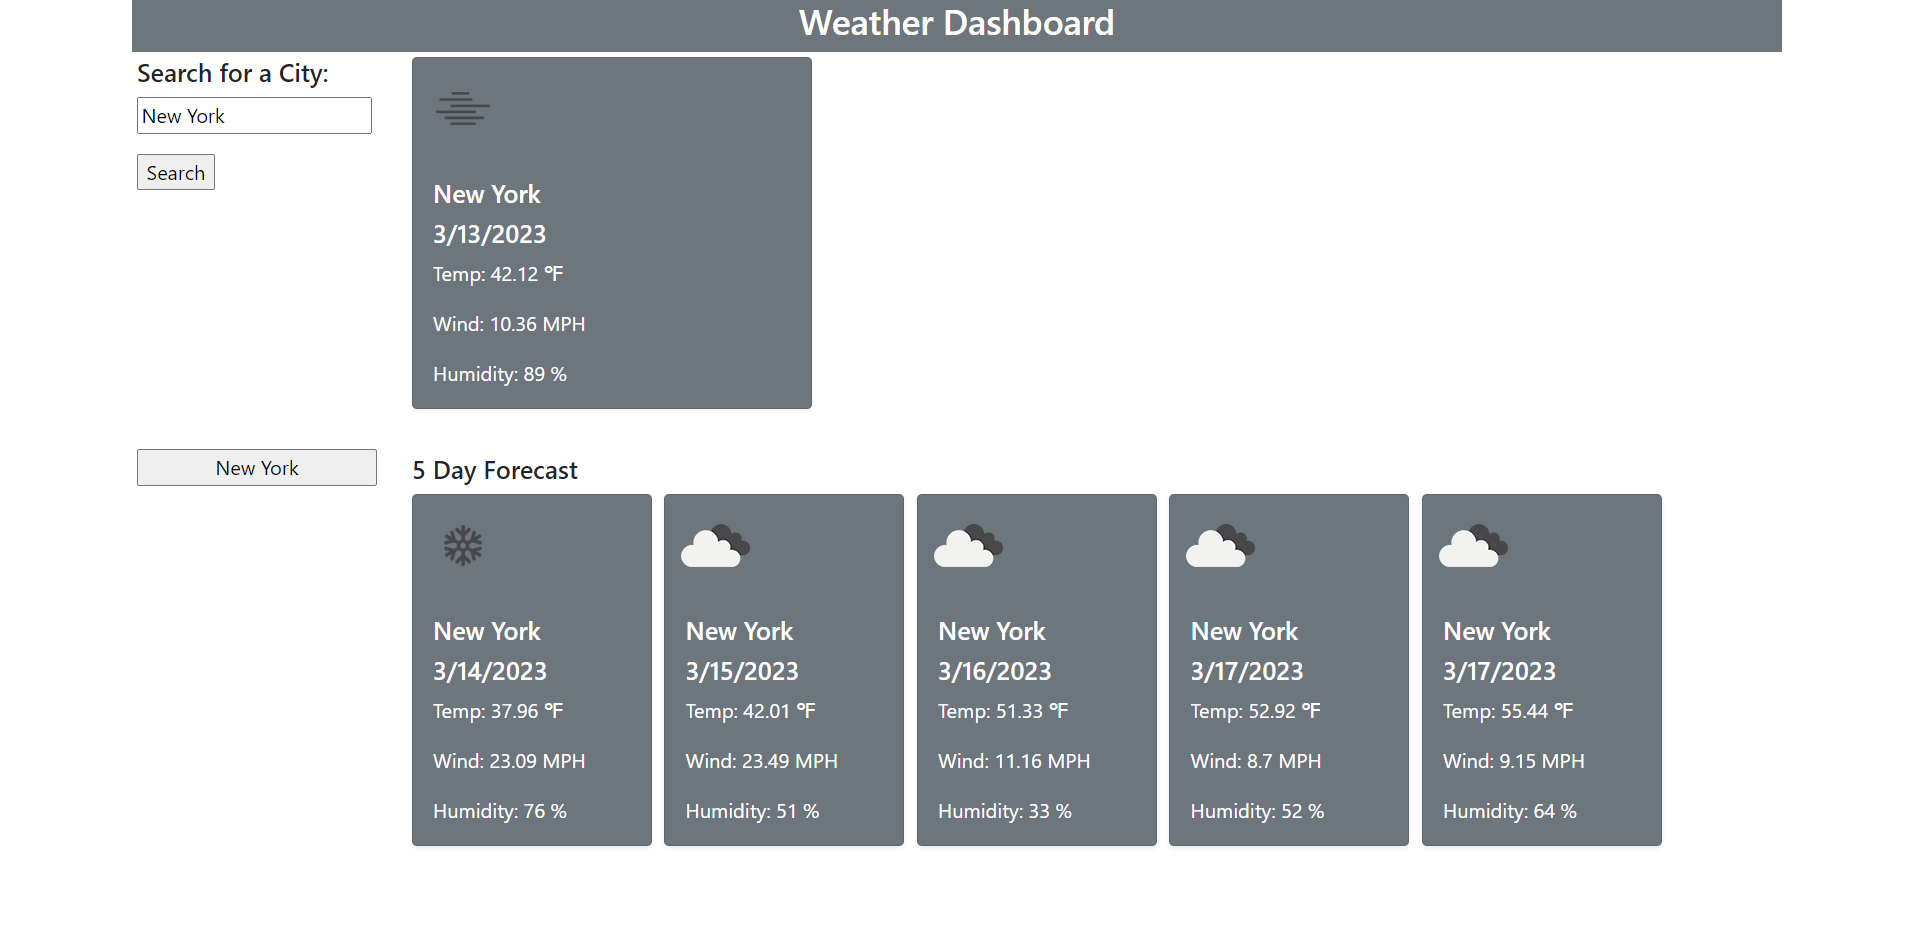
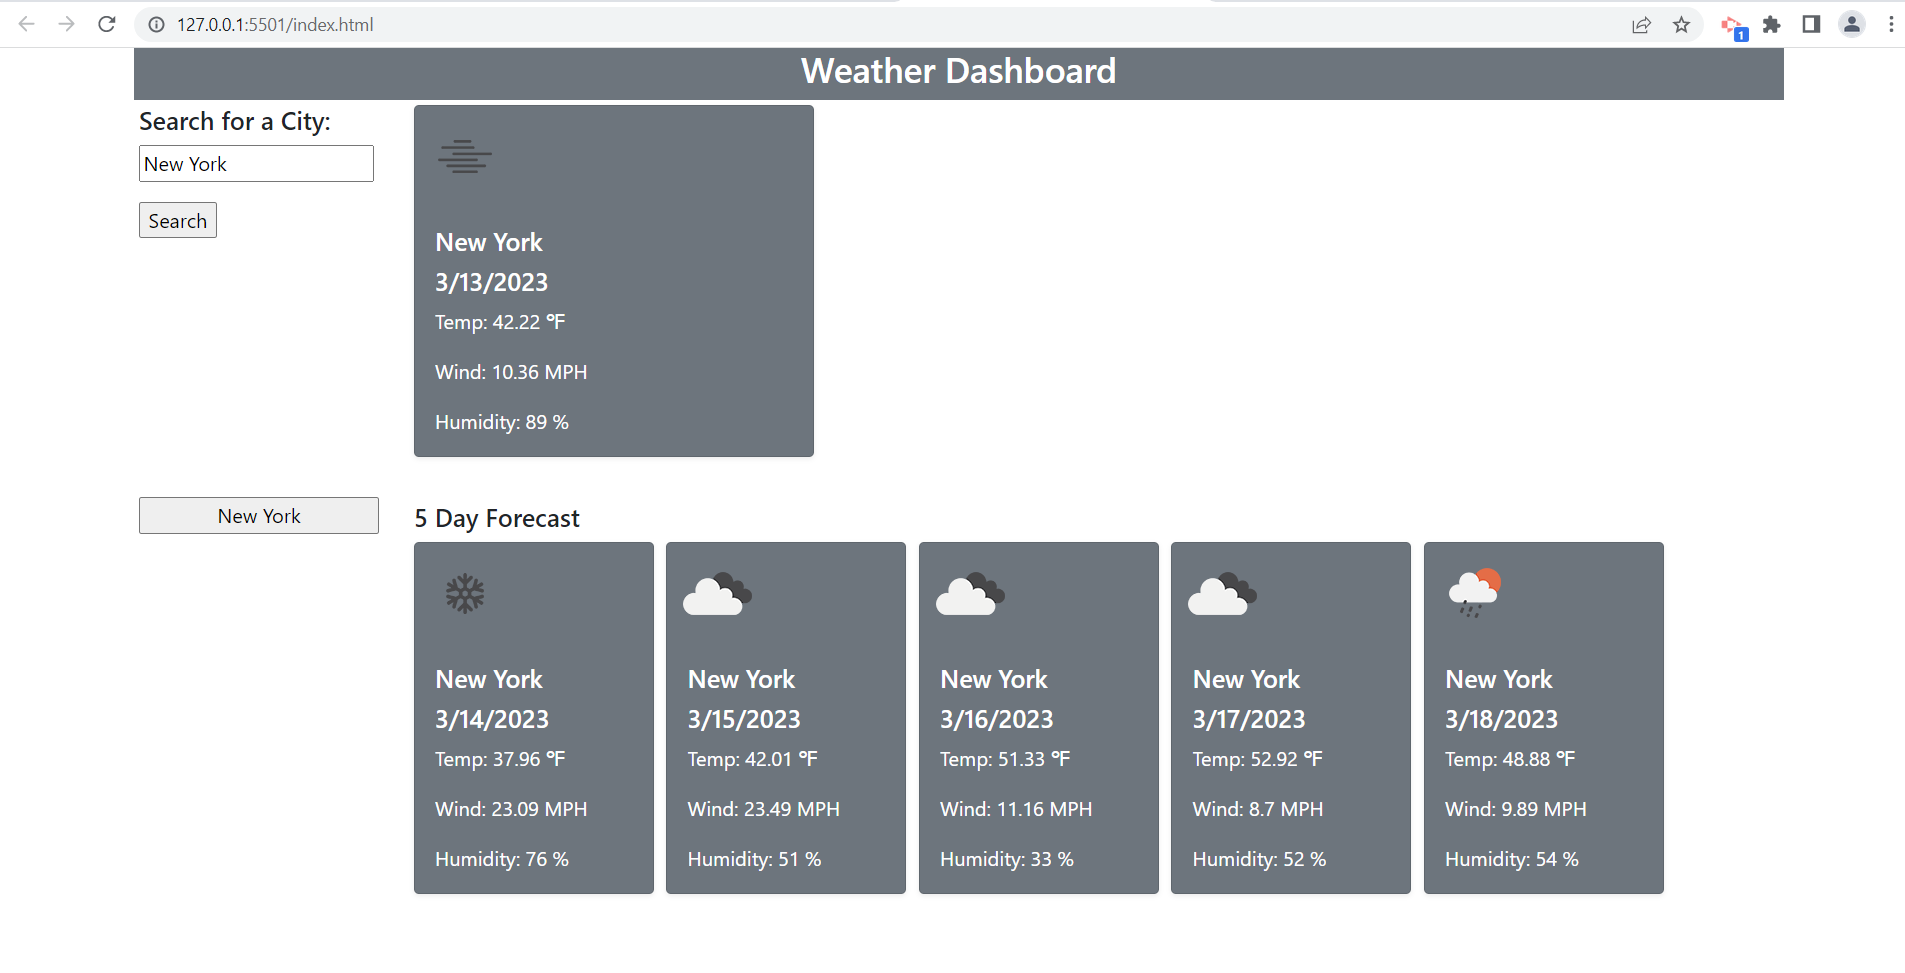
Updated weather dashboard image and script code to pull the correct dates.

Changed region(s): [[0.0, 0.0, 1.0, 0.9285], [0.0929, 0.4952, 0.1858, 0.5571]]

diff --git a/script.js b/script.js
@@ -39,7 +39,7 @@ const weatherForecast = fetch(weatherForecastURL)
                                 });
 
         weatherForecast.then(function(data) {
-          console.log(data.list)
+          console.log(data)
          futureForecastDiv.innerHTML = "<div class=card-deck'><h5>5 Day Forecast</h5>" +  data.list.map((item, index) => { 
          
             
@@ -100,7 +100,7 @@ const weatherForecast = fetch(weatherForecastURL)
                     </div>
                    </div>
                   `;
-                 } else if (index === 34){
+                 } else if (index === 38){
                     return `<div class="card mb-4 shadow-sm text-white bg-secondary future-weather-card" style="margin-right: 10px; width: 12rem; height: auto; float:left">
                     <img src="${weatherIconURL}" class="card-img-top" alt="weather icon" style="width: 5rem; height: 5rem;">
                        <div class="card-body">

diff --git a/style.css b/style.css
@@ -12,12 +12,6 @@ body{
 }
 
 
-
-
-
-
-
-
 .inputSearchHistory {
     width: 100px;
     margin: 5px;
